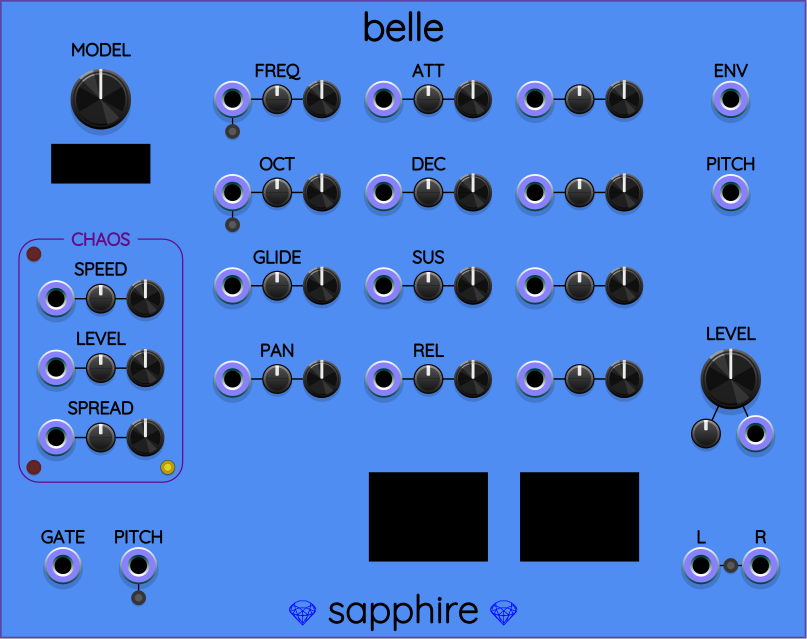
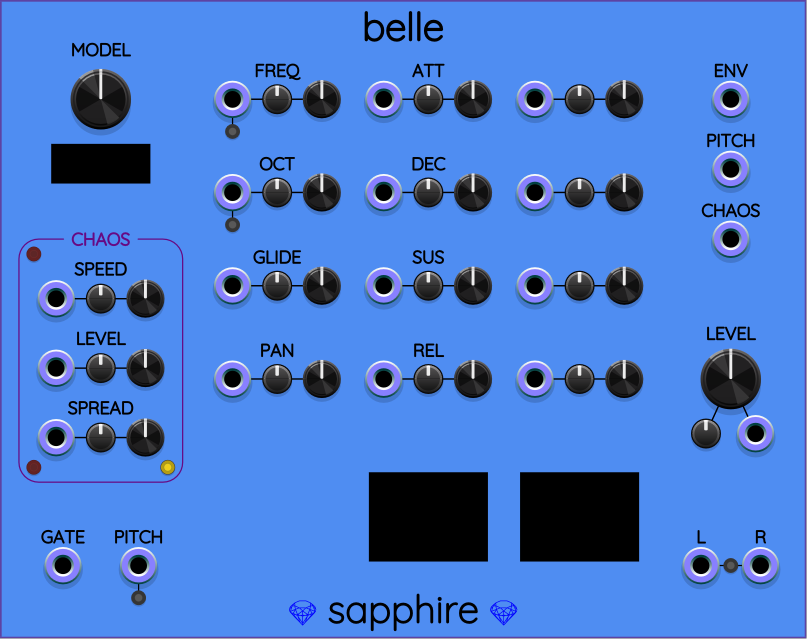
Belle: added CHAOS output port.
Copy the chaos signals to a polyphonic output port.
Currently there are 14 channels, but this is likely to
increase to 16 before releasing Belle (if we add at least
2 more chaos-supportive attenuverters).

Moved the output ports a little closer together to
free vertical space on the right side of the panel.

Changed region(s): [[0.8674, 0.2081, 0.9603, 0.4163]]

diff --git a/src/belle_vcv.cpp b/src/belle_vcv.cpp
@@ -19,6 +19,7 @@ namespace Sapphire
 
         constexpr unsigned nChaoticSignals = 14;    // how many attenuverters need separate signals
         constexpr unsigned nBatchSize = std::max<unsigned>(PORT_MAX_CHANNELS, nChaoticSignals);
+        constexpr unsigned nChaosOutputChannels = std::min<unsigned>(PORT_MAX_CHANNELS, nChaoticSignals);
         using fountain_t = ChaosFountain<nBatchSize>;
         using batch_t = ChaosBatch<nBatchSize>;
 
@@ -89,6 +90,7 @@ namespace Sapphire
             AUDIO_RIGHT_OUTPUT,
             ENVELOPE_OUTPUT,
             PITCH_OUTPUT,
+            CHAOS_OUTPUT,
 
             OUTPUTS_LEN
         };
@@ -214,6 +216,7 @@ namespace Sapphire
 
                 configOutput(ENVELOPE_OUTPUT, "Envelope");
                 configOutput(PITCH_OUTPUT, "Pitch");
+                configOutput(CHAOS_OUTPUT, "Chaos");
                 configOutput(AUDIO_LEFT_OUTPUT,  "Left audio");
                 configOutput(AUDIO_RIGHT_OUTPUT, "Right audio");
                 configButton(OUTPUT_MODE_BUTTON_PARAM);
@@ -456,10 +459,11 @@ namespace Sapphire
             {
                 updateSelectedEngine(args.sampleRate);
 
-                auto& left  = outputs.at(AUDIO_LEFT_OUTPUT);
-                auto& right = outputs.at(AUDIO_RIGHT_OUTPUT);
-                auto& env   = outputs.at(ENVELOPE_OUTPUT);
-                auto& pitch = outputs.at(PITCH_OUTPUT);
+                auto& outLeft  = outputs.at(AUDIO_LEFT_OUTPUT);
+                auto& outRight = outputs.at(AUDIO_RIGHT_OUTPUT);
+                auto& outEnv   = outputs.at(ENVELOPE_OUTPUT);
+                auto& outPitch = outputs.at(PITCH_OUTPUT);
+                auto& outChaos = outputs.at(CHAOS_OUTPUT);
 
                 nPolyChannels = numOutputChannels(INPUTS_LEN, 0);
                 if (nPolyChannels > 0)
@@ -530,28 +534,32 @@ namespace Sapphire
                         chaosSeedSmoother.getGain() *
                         modelChangeSmoother.getGain();
 
-                    env.setChannels(nPolyChannels);
+                    outEnv.setChannels(nPolyChannels);
                     for (unsigned c = 0; c < nPolyChannels; ++c)
-                        env.setVoltage(10 * result.env.poly[c] * antiClick, c);
+                        outEnv.setVoltage(10 * result.env.poly[c] * antiClick, c);
 
-                    pitch.setChannels(nPolyChannels);
+                    outPitch.setChannels(nPolyChannels);
                     for (unsigned c = 0; c < nPolyChannels; ++c)
-                        pitch.setVoltage(polyEngine.contextArray[c].getPitchVoct(), c);
+                        outPitch.setVoltage(polyEngine.contextArray[c].getPitchVoct(), c);
+
+                    outChaos.setChannels(nChaosOutputChannels);
+                    for (unsigned c = 0; c < nChaosOutputChannels; ++c)
+                        outChaos.setVoltage(batch(c), c);
 
                     if (isOutputModePolyphonic())
                     {
-                        left.setChannels(nPolyChannels);
-                        right.setChannels(nPolyChannels);
+                        outLeft.setChannels(nPolyChannels);
+                        outRight.setChannels(nPolyChannels);
                         for (unsigned c = 0; c < nPolyChannels; ++c)
                         {
-                            left .setVoltage(result.stereo.poly[c].sample[0] * antiClick * gain[c], c);
-                            right.setVoltage(result.stereo.poly[c].sample[1] * antiClick * gain[c], c);
+                            outLeft .setVoltage(result.stereo.poly[c].sample[0] * antiClick * gain[c], c);
+                            outRight.setVoltage(result.stereo.poly[c].sample[1] * antiClick * gain[c], c);
                         }
                     }
                     else
                     {
-                        left.setChannels(1);
-                        right.setChannels(1);
+                        outLeft.setChannels(1);
+                        outRight.setChannels(1);
                         float sumL = 0;
                         float sumR = 0;
                         for (unsigned c = 0; c < nPolyChannels; ++c)
@@ -559,17 +567,17 @@ namespace Sapphire
                             sumL += result.stereo.poly[c].sample[0] * gain[c];
                             sumR += result.stereo.poly[c].sample[1] * gain[c];
                         }
-                        left .setVoltage(sumL * antiClick, 0);
-                        right.setVoltage(sumR * antiClick, 0);
+                        outLeft .setVoltage(sumL * antiClick, 0);
+                        outRight.setVoltage(sumR * antiClick, 0);
                     }
                 }
                 else
                 {
-                    setNullOutput(left);
-                    setNullOutput(right);
-                    setNullOutput(env);
-                    setNullOutput(pitch);
-
+                    setNullOutput(outLeft);
+                    setNullOutput(outRight);
+                    setNullOutput(outEnv);
+                    setNullOutput(outPitch);
+                    setNullOutput(outChaos);
                 }
             }
 
@@ -688,6 +696,7 @@ namespace Sapphire
                 addSapphireOutput(AUDIO_RIGHT_OUTPUT, "audio_right_output");
                 addSapphireOutput(ENVELOPE_OUTPUT, "envelope_output");
                 addSapphireOutput(PITCH_OUTPUT, "pitch_output");
+                addSapphireOutput(CHAOS_OUTPUT, "chaos_output");
                 addOutputModeButton();
                 addPitchModeButton(PITCH_MODE_BUTTON_PARAM, "pitch_mode_button");
                 addPitchModeButton(FREQ_MODE_BUTTON_PARAM, "freq_mode_button");

diff --git a/src/sapphire_panel.cpp b/src/sapphire_panel.cpp
@@ -17,6 +17,7 @@ namespace Sapphire
             {"audio_right_output",     { 153.320,  114.000}},
             {"chaos_display_button",   {   6.820,   94.200}},
             {"chaos_freeze_button",    {  33.820,   94.200}},
+            {"chaos_output",           { 147.320,   48.200}},
             {"chaos_random_button",    {   6.820,   51.200}},
             {"chaos_stereo_button",    {  33.820,   51.200}},
             {"clevel_atten",           {  20.320,   74.200}},
@@ -70,7 +71,7 @@ namespace Sapphire
             {"pan_knob",               {  64.880,   76.400}},
             {"pitch_input",            {  27.940,  114.000}},
             {"pitch_mode_button",      {  27.940,  120.500}},
-            {"pitch_output",           { 147.320,   38.800}},
+            {"pitch_output",           { 147.320,   34.100}},
             {"release_atten",          {  86.360,   76.400}},
             {"release_cv",             {  77.360,   76.400}},
             {"release_knob",           {  95.360,   76.400}},

diff --git a/util/make_sapphire_svg.py b/util/make_sapphire_svg.py
@@ -2893,10 +2893,11 @@ def GenerateBellePanel(cdict: ControlDict) -> int:
         portDeltaColumn = 0.25
         addPort(-portDeltaColumn, 5, 'gate_input', 'GATE')
         addPort(+portDeltaColumn, 5, 'pitch_input', 'PITCH')
+        addPort(4, 0.00, 'envelope_output', 'ENV')
+        addPort(4, 0.75, 'pitch_output', 'PITCH')
+        addPort(4, 1.50, 'chaos_output', 'CHAOS')
         addPort(4, 5, 'audio_left_output',  'L', -dxPortFromCenter)
         addPort(4, 5, 'audio_right_output', 'R', +dxPortFromCenter)
-        addPort(4, 0, 'envelope_output', 'ENV')
-        addPort(4, 1, 'pitch_output', 'PITCH')
 
         xPortCenter = xBelle(4)
         yPortCenter = yBelle(5)
